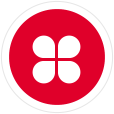
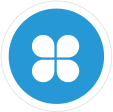
底部导航图标

diff --git a/src/assets/icon/iconfont.js b/src/assets/icon/iconfont.js
@@ -1,0 +1,1 @@
+(function(window){var svgSprite='<svg><symbol id="el-icon-footer_1" viewBox="0 0 1024 1024"><path d="M841.144904 948.586426 182.8377 948.586426 182.8377 494.660076 212.63126 494.660076 212.63126 918.591275 811.35953 918.591275 811.35953 494.660076 841.144904 494.660076Z" fill="#8a8a8a" ></path><path d="M851.70133 959.210391 172.281273 959.210391 172.281273 484.036112l50.906413 0 0 423.932222 577.615417 0L800.803103 484.036112l50.897204 0L851.700307 959.210391zM193.394127 937.962461l637.193327 0L830.587454 505.284041l-8.671497 0L821.915957 929.216263 202.074833 929.216263 202.074833 505.284041l-8.680706 0L193.394127 937.962461z" fill="#8a8a8a" ></path><path d="M100.186282 530.155499 79.238181 508.830821 512.009721 78.750575 944.762843 508.830821 923.813718 530.155499 512.009721 120.914884Z" fill="#8a8a8a" ></path><path d="M923.902746 545.17661 512.009721 135.845944 100.096231 545.17661l-35.792181-36.433794L512.009721 63.818491l447.687252 444.924325L923.902746 545.17661zM94.170265 508.921895l6.105045 6.214539L512.009721 105.98587l411.713946 409.150564 6.107091-6.214539L512.009721 93.680613 94.170265 508.921895z" fill="#8a8a8a" ></path><path d="M645.55118 933.598061 615.75762 933.598061 615.75762 604.391247c0-20.214391-16.35448-36.664038-36.431747-36.664038L444.653661 567.727209c-20.073174 0-36.428677 16.449647-36.428677 36.664038l0 329.206814-29.78435 0L378.440633 604.391247c0-36.737716 29.702486-66.639746 66.213028-66.639746l134.672212 0c36.521798 0 66.224284 29.90203 66.224284 66.639746L645.550157 933.598061z" fill="#8a8a8a" ></path><path d="M656.106584 944.223049l-50.907437 0L605.199147 604.391247c0-14.359033-11.606339-26.040073-25.872251-26.040073L444.653661 578.351174c-14.266935 0-25.873274 11.68104-25.873274 26.040073l0 339.831802-50.895157 0L367.88523 604.391247c0-42.60433 34.438347-77.263711 76.769454-77.263711l134.672212 0c42.338271 0 76.779687 34.659381 76.779687 77.263711L656.106584 944.223049zM626.313024 922.973072l8.68173 0L634.994754 604.391247c0-30.887474-24.972764-56.014758-55.667857-56.014758L444.653661 548.376489c-30.688953 0-55.656601 25.128307-55.656601 56.014758l0 318.581826 8.670473 0L397.667533 604.391247c0-26.074865 21.078061-47.288003 46.986127-47.288003l134.672212 0c25.908066 0 46.986127 21.212114 46.986127 47.288003L626.312 922.973072z" fill="#8a8a8a" ></path></symbol><symbol id="el-icon-footer_5" viewBox="0 0 1024 1024"><path d="M629.187491 560.812729c85.830831-43.103704 144.740522-131.921565 144.740522-234.512105 0-144.853086-117.426433-262.279518-262.279518-262.279518-144.853086 0-262.279518 117.42541-262.279518 262.279518 0 102.607936 58.929134 191.438077 144.782477 234.533594-135.242194 39.572274-242.062058 145.688103-282.631032 280.499485l0 105.85591c0 6.78145 5.498224 12.279674 12.279674 12.279674L899.612527 959.469288c6.782473 0 12.279674-5.498224 12.279674-12.279674L911.892201 841.333704C871.316064 706.496739 764.464477 600.36863 629.187491 560.812729zM876.978017 925.585573l-729.617319 0 0-84.251869c0 0 79.477123-217.281675 303.239396-260.260535 0 0 16.032138-3.751441 16.032138-16.71366 0-10.197246-8.54563-15.625886-12.193717-17.479093-97.284697-25.520233-169.055301-114.040313-169.055301-219.331357 0-125.229143 101.518115-226.747257 226.747257-226.747257 125.229143 0 226.747257 101.518115 226.747257 226.747257 0 104.275925-70.394257 192.098109-166.249395 218.572064l-0.001023 0.01535c0 0-0.073678 0.014326-0.202615 0.040932-0.617054 0.168846-1.235131 0.336668-1.855254 0.50142-4.13518 1.320065-13.077853 5.458315-13.077853 16.571421 0 14.4542 16.117073 18.035772 16.117073 18.035772s202.400756 24.346501 303.367309 260.047688L876.97597 925.585573z" fill="#8a8a8a" ></path></symbol><symbol id="el-icon-footer_4" viewBox="0 0 1024 1024"><path d="M348.8 96c-6.4 3.2-9.6 3.2-16 6.4-163.2 70.4-272 230.4-272 412.8 0 246.4 201.6 448 448 448 182.4 0 345.6-112 416-278.4 0-3.2 3.2-6.4 3.2-6.4 6.4-16-3.2-35.2-19.2-41.6s-35.2 3.2-41.6 19.2c0 3.2-3.2 3.2-3.2 6.4-57.6 144-198.4 236.8-355.2 236.8-211.2 0-384-172.8-384-384 0-153.6 92.8-291.2 230.4-352 3.2-3.2 6.4-3.2 12.8-6.4 16-6.4 25.6-25.6 19.2-41.6-3.2-19.2-22.4-25.6-38.4-19.2z m195.2 384h352c-16-185.6-163.2-336-352-352v352z m-32-416c246.4 0 448 201.6 448 448 0 19.2-12.8 32-32 32h-416c-19.2 0-32-12.8-32-32v-416c0-19.2 12.8-32 32-32z" fill="#8a8a8a" ></path></symbol><symbol id="el-icon-footer_2" viewBox="0 0 1024 1024"><path d="M962 962H62v-123.21428555h900zM102.92857138 924.92857109h818.14285724V876.28571386H102.92857138z m859.07142862-107.14285722H62v-133.28571358a80.35714248 80.35714248 0 0 1 83.99999971-75.85714336h198.64285751a91.07142891 91.07142891 0 0 0 23.57142891-51.21428555c3.85714248-44.78571386-21.42857109-78.64285693-48.85714336-117.85714276-31.07142862-42.85714307-66.42857109-91.92857168-66.42857109-162.85714278C252.92857168 152.21428614 361.99999971 62 512 62s259.07142832 90.21428614 259.07142832 214.28571445c0 70.92857109-35.35714248 119.78571445-66.42857109 162.85714278-28.28571416 39.21428584-52.71428584 73.07142891-48.85714336 117.85714277a91.07142891 91.07142891 0 0 0 23.57142891 51.21428555h198.64285751A80.35714248 80.35714248 0 0 1 962 684.50000029zM102.92857138 781.14285723h818.14285724v-96.64285694a41.35714278 41.35714278 0 0 0-42.85714307-39.00000058H660.07142862l-6.0000003-6.4285708a132.85714307 132.85714307 0 0 1-39.21428584-78.85714307c-4.92857138-57.21428584 25.92857109-99.64285752 55.50000029-140.78571417s59.78571416-82.71428555 59.78571416-142.71428583C730.14285693 172.14285693 640.57142832 99.07142891 512 99.07142891S293.85714307 172.14285693 293.85714307 276.28571445c0 60.00000029 30.42857109 101.99999971 59.78571416 142.71428584s60.42857168 83.57142832 55.50000029 140.78571416a132.85714307 132.85714307 0 0 1-39.21428584 78.85714307l-6.0000003 6.4285708H145.99999971a41.35714278 41.35714278 0 0 0-42.85714219 39.00000059z" fill="#8A8A8A" ></path></symbol></svg>';var script=function(){var scripts=document.getElementsByTagName("script");return scripts[scripts.length-1]}();var shouldInjectCss=script.getAttribute("data-injectcss");var ready=function(fn){if(document.addEventListener){if(~["complete","loaded","interactive"].indexOf(document.readyState)){setTimeout(fn,0)}else{var loadFn=function(){document.removeEventListener("DOMContentLoaded",loadFn,false);fn()};document.addEventListener("DOMContentLoaded",loadFn,false)}}else if(document.attachEvent){IEContentLoaded(window,fn)}function IEContentLoaded(w,fn){var d=w.document,done=false,init=function(){if(!done){done=true;fn()}};var polling=function(){try{d.documentElement.doScroll("left")}catch(e){setTimeout(polling,50);return}init()};polling();d.onreadystatechange=function(){if(d.readyState=="complete"){d.onreadystatechange=null;init()}}}};var before=function(el,target){target.parentNode.insertBefore(el,target)};var prepend=function(el,target){if(target.firstChild){before(el,target.firstChild)}else{target.appendChild(el)}};function appendSvg(){var div,svg;div=document.createElement("div");div.innerHTML=svgSprite;svgSprite=null;svg=div.getElementsByTagName("svg")[0];if(svg){svg.setAttribute("aria-hidden","true");svg.style.position="absolute";svg.style.width=0;svg.style.height=0;svg.style.overflow="hidden";prepend(svg,document.body)}}if(shouldInjectCss&&!window.__iconfont__svg__cssinject__){window.__iconfont__svg__cssinject__=true;try{document.write("<style>.svgfont {display: inline-block;width: 1em;height: 1em;fill: currentColor;vertical-align: -0.1em;font-size:16px;}</style>")}catch(e){console&&console.log(e)}}ready(appendSvg)})(window)

diff --git a/src/assets/icon/iconfont.css b/src/assets/icon/iconfont.css
@@ -1,0 +1,25 @@
+
+@font-face {font-family: "element-icons";
+  src: url('iconfont.eot?t=1530602173205'); /* IE9*/
+  src: url('iconfont.eot?t=1530602173205#iefix') format('embedded-opentype'), /* IE6-IE8 */
[1 lines of base64/hex data omitted]
+  url('iconfont.ttf?t=1530602173205') format('truetype'), /* chrome, firefox, opera, Safari, Android, iOS 4.2+*/
+  url('iconfont.svg?t=1530602173205#element-icons') format('svg'); /* iOS 4.1- */
+}
+
+.element-icons {
+  font-family:"element-icons" !important;
+  font-size:3rem;
+  font-style:normal;
+  -webkit-font-smoothing: antialiased;
+  -moz-osx-font-smoothing: grayscale;
+}
+
+.el-icon-footer_1:before { content: "\e619"; }
+
+.el-icon-footer_5:before { content: "\e608"; }
+
+.el-icon-footer_4:before { content: "\e78c"; }
+
+.el-icon-footer_2:before { content: "\e605"; }
+

diff --git a/src/views/footer/footerHome.vue b/src/views/footer/footerHome.vue
@@ -9,7 +9,7 @@
     <template v-for="item in footerArr">
       <el-menu-item :index="item.index" @click="routerPush(item.index)">
         <img v-if="item.elType == 3" :src="item.imgSrc" class="workImg" />
-        <img v-else :src="item.imgSrc"/>
+        <i :class="item.className"></i>
         <span>{{ item.text }}</span>
       </el-menu-item>
     </template>
@@ -23,11 +23,11 @@ export default {
   data: function () {
     return {
       footerArr: [
-        {elType: 1, index: 'home', text: '首页', imgSrc: require('@/assets/images/footer_1.png')},
-        {elType: 2, index: 'approve', text: '待审批', imgSrc: require('@/assets/images/footer_2.png')},
+        {elType: 1, index: 'home', text: '首页', className: 'el-icon-footer_1'},
+        {elType: 2, index: 'approve', text: '待审批', className: 'el-icon-footer_2'},
         {elType: 3, index: 'workBench', text: '工作台', imgSrc: require('@/assets/images/footer_3.png')},
-        {elType: 4, index: 'reportForm', text: '报表', imgSrc: require('@/assets/images/footer_4.png')},
-        {elType: 5, index: 'mine', text: '我的', imgSrc: require('@/assets/images/footer_5.png')}
+        {elType: 4, index: 'reportForm', text: '报表', className: 'el-icon-footer_4'},
+        {elType: 5, index: 'mine', text: '我的', className: 'el-icon-footer_5'}
       ],
       title: [],
       defaultActive: 'home'
@@ -62,7 +62,6 @@ export default {
           this.defaultActive = path
           break
         }
-
         if (footerArr[i].arr) {
           for (let j = 0; j < footerArr[i].arr.length; j++) {
             if (footerArr[i].arr[j].index === path) {
@@ -92,6 +91,6 @@ export default {
   .footerSelect .el-menu--horizontal>.el-menu-item{display: flex; flex-direction: column; align-content: space-around; justify-content: space-around; border: none;width: 20%; text-align: center; padding: 0; color: #8a8a8a!important; background: #ffffff!important; font-size: 0.1rem;}
   .footerSelect .el-menu--horizontal>.el-menu-item span{line-height: 0.2rem!important;}
   .footerSelect .el-menu--horizontal>.el-menu-item.is-active{border: none; color: #2698d6!important; background: #ffffff!important;}
-  .footerSelect .el-menu--horizontal>.el-menu-item img{width: 0.22rem; height: 0.22rem; margin: auto;}
+  .footerSelect .el-menu--horizontal>.el-menu-item i{display: inline-block; width: 0.22rem; height: 0.22rem; margin: auto; font-size: 0.24rem!important;}
   .footerSelect .el-menu--horizontal>.el-menu-item .workImg{width: 0.57rem; height: 0.57rem; margin: auto; margin-top: -0.3rem;}
 </style>

diff --git a/src/views/workBench/workBenchInfo.vue b/src/views/workBench/workBenchInfo.vue
@@ -75,7 +75,7 @@ export default {
 
 <style scoped>
   .workBenchInfoView{width: 100%; color: #999999; line-height: 0.3rem}
-  .tableTh span{display: inline-block; width: 25%; text-align: center; color: #666666;}
+  .tableTh span{display: inline-block; width: 25%; text-align: center; color: #666666; line-height: 0.4rem;}
   .tableTd .tableTitle{color: #2698d6; padding-left: 0.25rem; position: relative; background: #ffffff;}
   .tableTd .tableTitle:before{width: 0.05rem; height: 0.12rem; content: ''; position: absolute; left: 0.1rem; top: 0.09rem; background: #2698d6;}
   .tableTd .ulTable{text-align: center; display: flex; flex-wrap: wrap;}

diff --git a/src/main.js b/src/main.js
@@ -8,6 +8,7 @@ import ElementUI from 'element-ui'
 import 'element-ui/lib/theme-chalk/index.css'
 import axios from 'axios'
 import echarts from 'echarts'
+import '@/assets/icon/iconfont.css'
 import localstorage from './utils/localstorage'
 
 Vue.config.productionTip = false
